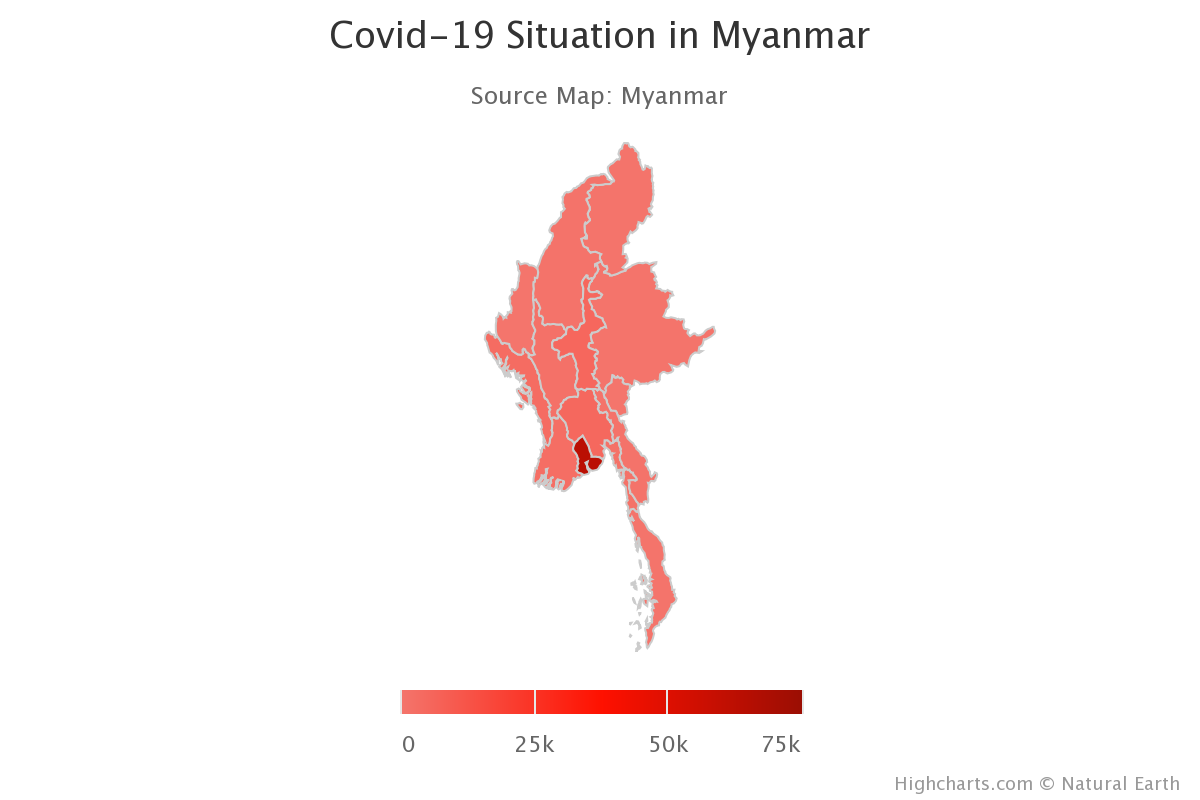
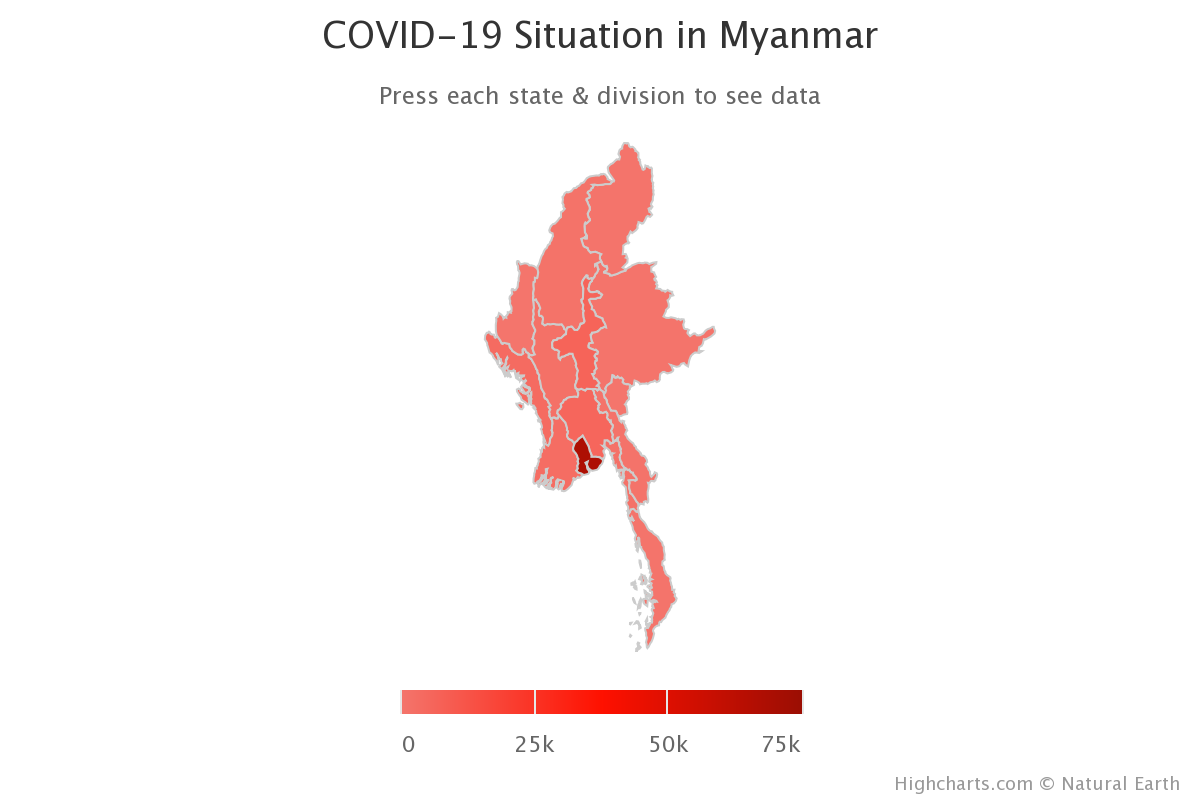
site upgrading

Changed region(s): [[0.2467, 0.0, 0.74, 0.0625], [0.3083, 0.0938, 0.6783, 0.1562]]

diff --git a/index.html b/index.html
@@ -1,7 +1,7 @@
 <!DOCTYPE html>
 <html lang="en">
 <head>
-    <title>COVID-19 Info(Eng Version)</title>
+    <title>COVID-19 Info Web</title>
     <link rel="shortcut icon" href="images1/shortcut_icon.png">
   <meta name="viewport" content="width=device-width, initial-scale=1">
   <meta charset="utf-8">
@@ -24,7 +24,8 @@
 <script src="https://stackpath.bootstrapcdn.com/bootstrap/4.4.1/js/bootstrap.min.js" integrity="sha384-wfSDF2E50Y2D1uUdj0O3uMBJnjuUD4Ih7YwaYd1iqfktj0Uod8GCExl3Og8ifwB6" crossorigin="anonymous"></script>
 
 <link rel="stylesheet" href="https://cdnjs.cloudflare.com/ajax/libs/font-awesome/4.7.0/css/font-awesome.min.css">
-
+<meta name="keywords" content="COVID-19 Info Myanmar">
+<meta name="description" content="This is the website where you can find COVID-19 data, and information related to Myanmar (Burma)">
 <meta property="og:image" content="https://covid-19infoweb.netlify.app/images1/covid-19-situation-in-my.png" />
 <meta property="og:description" content="Last Updated on December 4, 8:00 PM" />
 <meta property="og:title" content="COVID-19 Info Website" />
@@ -88,9 +89,18 @@ nav.navbar.shrink{
 font-family:'Unicode';
 src: url('https://cdn.rawgit.com/LeonarAung/MyanmarFont/6cf1262f/mon3.woff') format('woff'), url('https://cdn.rawgit.com/LeonarAung/MyanmarFont/6cf1262f/mon3.ttf') format('ttf');
 }
+.nav-item a{
+  transition: 0.7s;
+}
 .nav-item a:hover{
     color: red!important;
-   }
+}
+.nav-item .flex-center a{
+ transition: 0.7s;
+}
+.nav-item .flex-center a:hover{
+  color: black!important;
+}
    
    @media (max-width: 994px){
     .flex-center{
@@ -154,20 +164,13 @@ src: url('https://cdn.rawgit.com/LeonarAung/MyanmarFont/6cf1262f/mon3.woff') for
 "><i class="fas fa-info-circle" style="font-size:20px;"></i> Data in Map</a>
       </li>
     </ul>
-             <div class="dropdown-menu" aria-labelledby="navbarDropdown">
-          <a class="dropdown-item" href="#">Action</a>
-          <a class="dropdown-item" href="#">Another action</a>
-          <div class="dropdown-divider"></div>
-          <a class="dropdown-item" href="#">Something else here</a>
-        </div>
              
      
             <ul class="navbar-nav">
             <li class="nav-item ">
                 <div class="flex-center" style="margin-top: -1px;">
                    <a href="https://www.facebook.com/sharer/sharer.php?u=https://covid-19infoweb.netlify.app" target="_blank" class="fb-ic">
-                    <i class="fab fa-facebook-square" style="font-size:22px;color:blue;
-    letter-spacing: 8px;"></i>Share to Facebook</a>
+                    <i class="fab fa-facebook-square" style="font-size:22px; letter-spacing: 8px;"></i>Share to Facebook</a>
 
 
                 </div>
@@ -177,10 +180,7 @@ src: url('https://cdn.rawgit.com/LeonarAung/MyanmarFont/6cf1262f/mon3.woff') for
                  
                     
                       <a href="https://www.facebook.com/dialog/send?app_id=140586622674265&link=https://covid-19infoweb.netlify.app&redirect_uri=https://covid19infoweb.netlify.app%2Fmessengerredirect" target="_blank" class="fb-ic"><i class="fab fa-facebook-messenger" style="font-size: 21px;
-    color: blue;
-    margin-left: 22px;
-    letter-spacing: 8px;
-"></i>Share to Messenger</a>
+                      margin-left: 22px;letter-spacing: 8px;"></i>Share to Messenger</a>
 
                    
                 </div>
@@ -204,7 +204,7 @@ src: url('https://cdn.rawgit.com/LeonarAung/MyanmarFont/6cf1262f/mon3.woff') for
     color: #3F51B5;
     font-family: sans-serif;
 ">
-              COVID-19 Situations in Myanmar
+     COVID-19 Situation in Myanmar
             </div>
           </div>
                   
@@ -212,7 +212,7 @@ src: url('https://cdn.rawgit.com/LeonarAung/MyanmarFont/6cf1262f/mon3.woff') for
             <div class="col-md-12 col-sm-12">
               <hr style="margin-bottom: 10px; background:orange">
  <marquee bgcolor="orange"> 
-  <div class="running" style="font-size: 22px;color: #fff;font-family: sans-serif;">Last Updated on December 4, 8:00 PM: Myanmar currently has +21,390 lab tests, +1,502 confirmed cases, +1,225 recovered cases, and +31 deaths.</div>
+  <div class="running" style="font-size: 22px;color: #fff;font-family: sans-serif;"><!-- <i class="fas fa-fw fa-virus fa-spin" style="font-size: 20px;color: #000000"></i> -->Last Updated on December 4, 8:00 PM: Myanmar currently has +21,390 lab tests, +1,502 confirmed cases, +1,225 recovered cases, and +31 deaths.</div>
     </marquee>
  <hr style=" margin-top: 4px; background:orange">
             </div>
@@ -301,7 +301,8 @@ src: url('https://cdn.rawgit.com/LeonarAung/MyanmarFont/6cf1262f/mon3.woff') for
     <div class="col-md-12 col-sm-12">
     <a style="text-align:center;" href="map.html">
           <div class="alert alert-warning alert-dismissible fade show" role="alert">
-            <p><img src="images1/myanmar_location.png" alt="myanmar country's location icon">
+            <p style="font-weight: 600">
+              <img src="images1/myanmar_location.png" alt="myanmar country's location icon">
               Click this to see Data in Map 
               <img src="images1/myanmar_map.png" alt="the shape of the icon of myanmar country">
 

diff --git a/InfoPage.html b/InfoPage.html
@@ -1,7 +1,7 @@
 <!DOCTYPE html>
 <html lang="my">
 <head>
-    <title style="font-family:Unicode;">COVID-19 Info(မြန်မာဗားရှင်း)</title>
+    <title style="font-family:Unicode;">COVID-19 Info (မြန်မာဗားရှင်း)</title>
     <link rel="shortcut icon" href="images1/shortcut_icon.png">
   <meta name="viewport" content="width=device-width, initial-scale=1">
   <meta charset="utf-8">
@@ -23,7 +23,8 @@
 <script src="https://stackpath.bootstrapcdn.com/bootstrap/4.4.1/js/bootstrap.min.js" integrity="sha384-wfSDF2E50Y2D1uUdj0O3uMBJnjuUD4Ih7YwaYd1iqfktj0Uod8GCExl3Og8ifwB6" crossorigin="anonymous"></script>
 
 <link rel="stylesheet" href="https://cdnjs.cloudflare.com/ajax/libs/font-awesome/4.7.0/css/font-awesome.min.css">
-
+<meta name="keywords" content="COVID-19 Info မြန်မာ ကိုဗစ်">
+<meta name="description" style="font-family:Unicode;" content="ဤ ၀က်ဘ်ဆိုက်တွင် မြန်မာနိုင်ငံနှင့်သက်ဆိုင်သော COVID-19 အချက်အလက်များနှင့် သတင်းအချက်အလက်များကို ရှာဖွေဖတ်ရှု့နိုင်ပါသည်။">
 <meta property="og:image" content="https://covid-19infoweb.netlify.app/images1/covid-19-situation-in-my.png"/>
 <meta property="og:description" style="font-family:Unicode;" content="ဒီဇင်ဘာ ၃ ရက်၊ ည ၈:၀၀ ထုတ်ပြန်သောသတင်း" />
 <meta property="og:title" style="font-family:Unicode;" content="မြန်မာနိုင်ငံတွင်ကိုဗစ်ဖြစ်ပွားနေမှုအခြေအနေ" />
@@ -99,10 +100,18 @@ img:hover  {
   -webkit-transform: scale(0.9);
   transform: scale(0.9);
 }
-   .nav-item a:hover{
+   .nav-item a{
+  transition: 0.7s;
+}
+.nav-item a:hover{
     color: red!important;
-   }
-   
+}
+.nav-item .flex-center a{
+ transition: 0.7s;
+}
+.nav-item .flex-center a:hover{
+  color: black!important;
+}   
    @media (max-width: 994px){
     .flex-center{
       display: none;
@@ -213,20 +222,12 @@ img:hover  {
       </li>
     </ul>
 
-        <div class="dropdown-menu" aria-labelledby="navbarDropdown">
-          <a class="dropdown-item" href="#">Action</a>
-          <a class="dropdown-item" href="#">Another action</a>
-          <div class="dropdown-divider"></div>
-          <a class="dropdown-item" href="#">Something else here</a>
-        </div>
-
-      
-                  <ul class="navbar-nav">
+       
+          <ul class="navbar-nav">
             <li class="nav-item ">
                 <div class="flex-center" style="margin-top: -1px;">
                    <a href="https://www.facebook.com/sharer/sharer.php?u=https://covid-19infoweb.netlify.app/InfoPage.html" target="_blank" class="fb-ic">
-                    <i class="fab fa-facebook-square" style="font-size:22px;color:blue;
-    letter-spacing: 8px;"></i>Share to Facebook</a>
+                    <i class="fab fa-facebook-square" style="font-size:22px;letter-spacing: 8px;"></i>Share to Facebook</a>
 
 
                 </div>
@@ -235,11 +236,8 @@ img:hover  {
                 <div class="flex-center">
                  
                     
-                      <a href="https://www.facebook.com/dialog/send?app_id=140586622674265&link=https://covid-19infoweb.netlify.app&redirect_uri=https://covid19infoweb.netlify.app%2Fmessengerredirect" target="_blank" class="fb-ic"><i class="fab fa-facebook-messenger" style="    font-size: 21px;
-    color: blue;
-    margin-left: 22px;
-    letter-spacing: 8px;
-"></i>Share to Messenger</a>
+                      <a href="https://www.facebook.com/dialog/send?app_id=140586622674265&link=https://covid-19infoweb.netlify.app&redirect_uri=https://covid19infoweb.netlify.app%2Fmessengerredirect" target="_blank" class="fb-ic"><i class="fab fa-facebook-messenger" style="font-size: 21px;
+                      margin-left: 22px;letter-spacing: 8px;"></i>Share to Messenger</a>
 
                    
                 </div>
@@ -325,7 +323,8 @@ img:hover  {
     <div class="col-md-12 col-sm-12">
     <a style="text-align:center; "href="map.html">
           <div class="alert alert-warning alert-dismissible fade show" role="alert">
-            <p><img src="images1/myanmar_location.png" alt="myanmar country's location icon">
+            <p style="font-weight: 600">
+              <img src="images1/myanmar_location.png" alt="myanmar country's location icon">
               Click this to see Data in Map 
               <img src="images1/myanmar_map.png" alt="the shape of the icon of myanmar country">
 

diff --git a/map.html b/map.html
@@ -1,7 +1,7 @@
 <!DOCTYPE html>
 <html lang="en">
 <head>
-    <title>COVID-19 Info(Data in Map)</title>
+    <title>COVID-19 Info (Data in Map)</title>
     <link rel="shortcut icon" href="images1/shortcut_icon.png">
 <meta name="viewport" content="width=device-width, initial-scale =1">
 <meta charset="utf-8">
@@ -26,7 +26,9 @@
 <script src="https://stackpath.bootstrapcdn.com/bootstrap/4.4.1/js/bootstrap.min.js" integrity="sha384-wfSDF2E50Y2D1uUdj0O3uMBJnjuUD4Ih7YwaYd1iqfktj0Uod8GCExl3Og8ifwB6" crossorigin="anonymous"></script>
 
 <link rel="stylesheet" href="https://cdnjs.cloudflare.com/ajax/libs/font-awesome/4.7.0/css/font-awesome.min.css">
-
+<meta name="keywords" content="COVID-19 Myanmar Map">
+<meta name="description" content="This is the web page where you can find COVID-19 data in Map related to Myanmar
+(Burma)">
 <meta property="og:image" content="https://covid-19infoweb.netlify.app/images1/covid-19-situation-in-my.png" />
 <meta property="og:description" content="Last Updated on Dec 3, 8:00 PM | This is the data related to Covid-19 Situation in Myanmar" />
 <meta property="og:title" content="COVID-19 Info Website(Map)" />
@@ -82,9 +84,18 @@ nav.navbar.shrink{
 font-family:'Unicode';
 src: url('https://cdn.rawgit.com/LeonarAung/MyanmarFont/6cf1262f/mon3.woff') format('woff'), url('https://cdn.rawgit.com/LeonarAung/MyanmarFont/6cf1262f/mon3.ttf') format('ttf');
 }
+.nav-item a{
+  transition: 0.7s;
+}
 .nav-item a:hover{
     color: red!important;
-   }
+}
+.nav-item .flex-center a{
+ transition: 0.7s;
+}
+.nav-item .flex-center a:hover{
+  color: black!important;
+}
    @media (min-width: 320px)and (max-width: 991px){
        #link1{
          margin-top: 8px!important;
@@ -183,21 +194,13 @@ src: url('https://cdn.rawgit.com/LeonarAung/MyanmarFont/6cf1262f/mon3.woff') for
 "><i class="fas fa-info-circle" style="font-size:20px;"></i> Data in Map</a>
       </li>
     </ul>
-        <div class="dropdown-menu" aria-labelledby="navbarDropdown">
-          <a class="dropdown-item" href="#">Action</a>
-          <a class="dropdown-item" href="#">Another action</a>
-          <div class="dropdown-divider"></div>
-          <a class="dropdown-item" href="#">Something else here</a>
-        </div>
-     
-      
+            
       
             <ul class="navbar-nav">
             <li class="nav-item ">
                 <div class="flex-center" style="margin-top: -1px;">
                    <a href="https://www.facebook.com/sharer/sharer.php?u=https://covid-19infoweb.netlify.app" target="_blank" class="fb-ic">
-                    <i class="fab fa-facebook-square" style="font-size:22px;color:blue;
-    letter-spacing: 8px;"></i>Share to Facebook</a>
+                    <i class="fab fa-facebook-square" style="font-size:22px;letter-spacing: 8px;"></i>Share to Facebook</a>
 
 
                 </div>
@@ -206,11 +209,7 @@ src: url('https://cdn.rawgit.com/LeonarAung/MyanmarFont/6cf1262f/mon3.woff') for
                 <div class="flex-center">
                  
                     
-                      <a href="https://www.facebook.com/dialog/send?app_id=140586622674265&link=https://covid-19infoweb.netlify.app&redirect_uri=https://covid19infoweb.netlify.app%2Fmessengerredirect" target="_blank" class="fb-ic"><i class="fab fa-facebook-messenger" style="    font-size: 21px;
-    color: blue;
-    margin-left: 22px;
-    letter-spacing: 8px;
-"></i>Share to Messenger</a>
+                      <a href="https://www.facebook.com/dialog/send?app_id=140586622674265&link=https://covid-19infoweb.netlify.app&redirect_uri=https://covid19infoweb.netlify.app%2Fmessengerredirect" target="_blank" class="fb-ic"><i class="fab fa-facebook-messenger" style="    font-size: 21px;margin-left: 22px;letter-spacing: 8px;"></i>Share to Messenger</a>
 
                    
                 </div>
